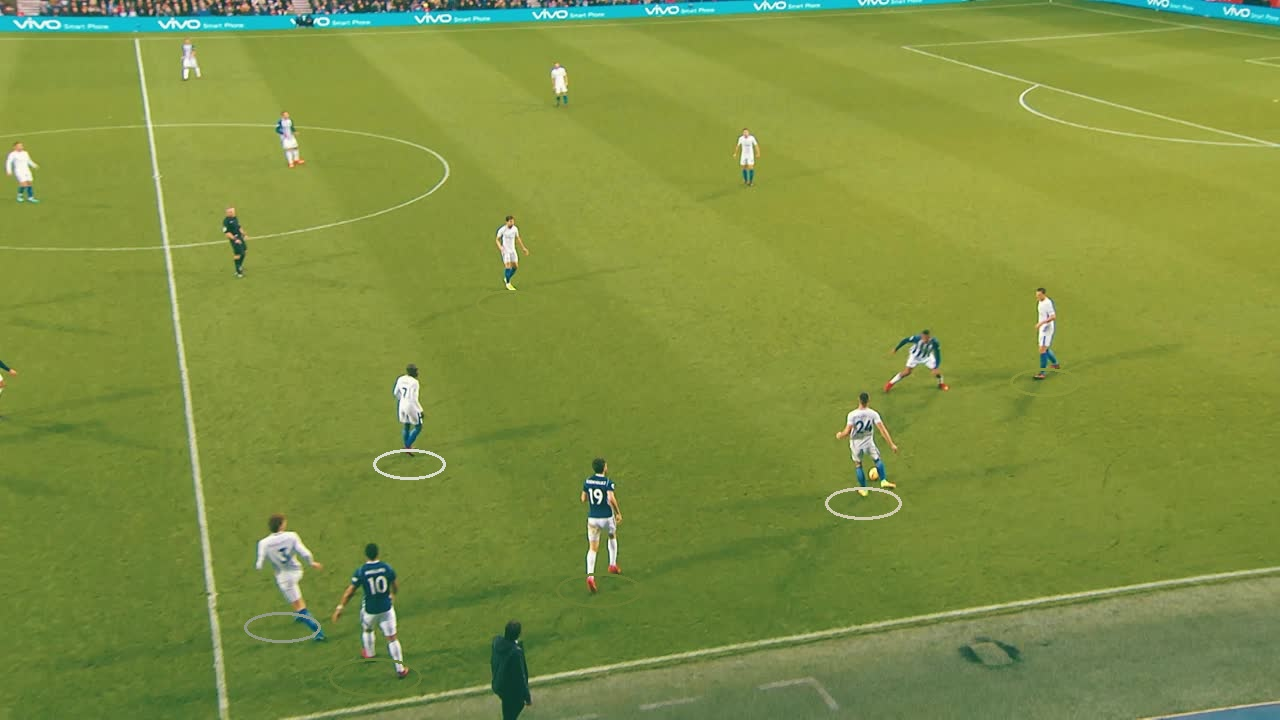
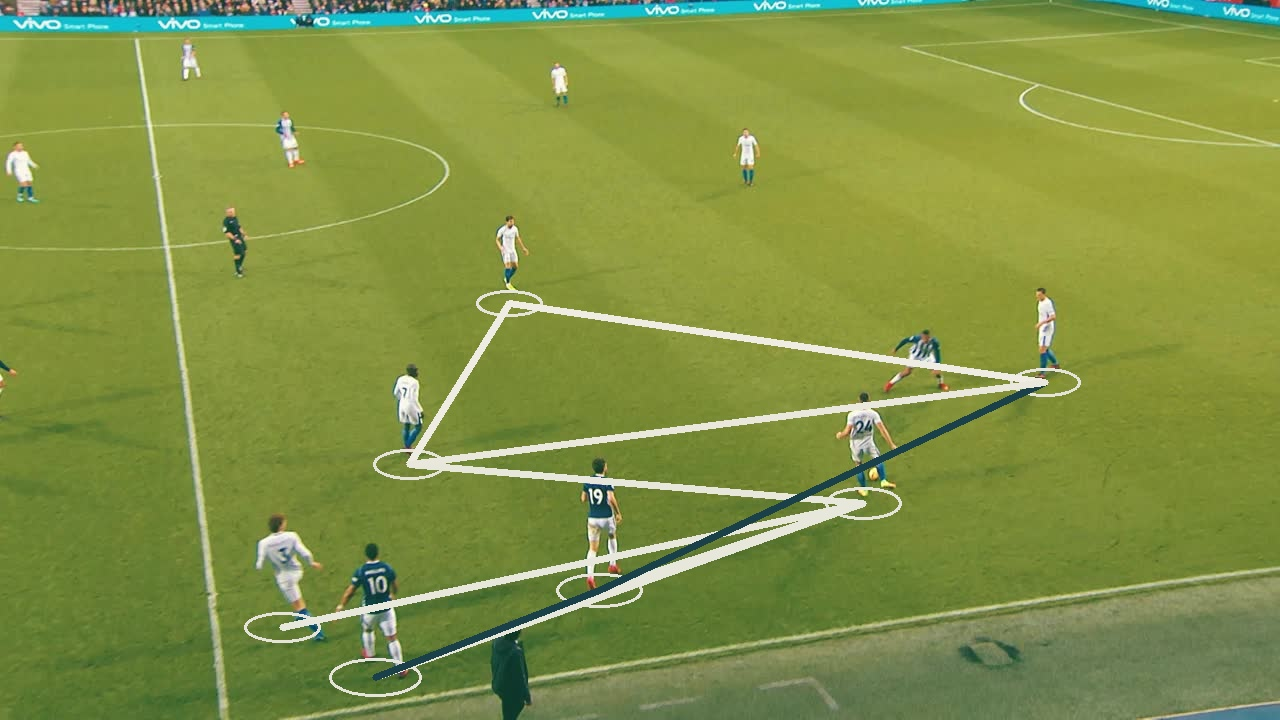
added lines, but they're not perfect

diff --git a/objects.py b/objects.py
@@ -1,5 +1,6 @@
 from sklearn.cluster import KMeans
 import numpy as np
+import cv2
 
 
 class Rect(object):
@@ -39,18 +40,87 @@ class Ellipse(object):
 
 class PlayerImage(object):
     colors = None
+    main_color = None
     image = None
+    histogram = None
 
     def __init__(self, image, coord):
+ 
+        def centroid_histogram(clt):
+            numLabels = np.arange(0, len(np.unique(clt.labels_)) + 1)
+            (hist, _) = np.histogram(clt.labels_, bins = numLabels)
+            hist = hist.astype("float")
+            hist /= hist.sum()
+            return hist
+
+        #center
         self.image = image[coord.y: coord.y + coord.h, coord.x: coord.x + coord.w]
         height, width, dim = self.image.shape
 
-        img_vec = np.reshape(self.image, [height * width, dim] )
-        kmeans = KMeans(n_clusters=3)
+        #crop
+        img = self.image[int(height/4):int(2*height/4), int(width/4):int(3*width/4), :]
+        self.image = img
+
+        height, width, dim = img.shape
+
+        # normalize
+        normalizedImg = np.zeros((38, 38))
+
+        self.image = cv2.normalize(self.image,  normalizedImg, 0, 255, cv2.NORM_MINMAX)
+        self.histogram = cv2.calcHist([self.image],[0],None,[256],[0,256])
+
+        #kmeans
+        img_vec = np.reshape(img, [height * width, dim] )
+        kmeans = KMeans(n_clusters=5)
         kmeans.fit( img_vec )
 
         colors = []
         for center in kmeans.cluster_centers_:
             colors.append((int(center[0]), int(center[1]), int(center[2])))
         self.colors = colors
+        self.main_color = self.colors[np.argsort(centroid_histogram(kmeans))[-2]]
 
+class ImageAddition(object):
+    ellipse = None
+    playerImage = None
+
+    def __init__(self, ellipse, playerImage):
+        self.ellipse = ellipse
+        self.playerImage = playerImage
+
+class CorrelationLine(object):
+    pt1 = None
+    pt2 = None
+    score = None
+    color = None
+
+    def __init__(self, pt1, pt2, score, color):
+        self.pt1 = pt1
+        self.pt2 = pt2
+        self.score = score
+        self.color = color
+     
+class CorrelationLines(list):
+    pass
+
+class ImageAdditions(list):
+
+    def get_histogram_correlation(self):
+        corrs = CorrelationLines()
+        for i, addition1 in enumerate(self):
+            for j, addition2 in enumerate(self):
+                if i >= j:
+                    continue
+                corrs.append(
+                        CorrelationLine(
+                            addition1.ellipse.center(), 
+                            addition2.ellipse.center(), 
+                            cv2.compareHist(
+                                addition1.playerImage.histogram, 
+                                addition2.playerImage.histogram, 
+                                cv2.HISTCMP_CORREL
+                                ),
+                            addition1.playerImage.main_color
+                            )
+                        )
+        return corrs

diff --git a/pedestrian-recognition.py b/pedestrian-recognition.py
@@ -4,28 +4,36 @@ import numpy as np
 import argparse
 import imutils
 import cv2
-from objects import Rect, Ellipse, PlayerImage
+from objects import *
+import math
 
 hog = cv2.HOGDescriptor()
 hog.setSVMDetector(cv2.HOGDescriptor_getDefaultPeopleDetector())
+additions = ImageAdditions()
+
+def to01(num):
+    return 0 if num < 0 else 1
+
 
 def add_figures(image):
     global hog
+    global additions
     (rects, weights) = hog.detectMultiScale(image, winStride=(4, 4), padding=(8, 8), scale=1.05) 
-    additions= []
-    for rect in rects:
+    for i, rect in enumerate(rects):
         coord = Rect(rect)
-
         playerImage = PlayerImage(image, coord)
-        additions.append((Ellipse(coord), playerImage))
-        
+        additions.append(ImageAddition(Ellipse(coord), playerImage))
+        cv2.imwrite("player" + str(i) + ".jpg", playerImage.image) # debug
+
     for addition in additions:
-        ellipse = addition[0]
-        playerImage = addition[1]
-        cv2.ellipse( image, ellipse.center(), ellipse.axes(), 0, 0, 360, playerImage.colors[0], 2)
+        cv2.ellipse( image, addition.ellipse.center(), addition.ellipse.axes(), 0, 0, 360, playerImage.main_color, 2)
+
+    corrs = additions.get_histogram_correlation()
+    for corr in corrs:
+        if corr.score > 0:
+            cv2.line(image, corr.pt1, corr.pt2, corr.color, 3)
 
     return image
-
 
 image = cv2.imread("liverpool-chelsea.jpeg")
 cv2.imwrite("test.jpg", add_figures(image))
